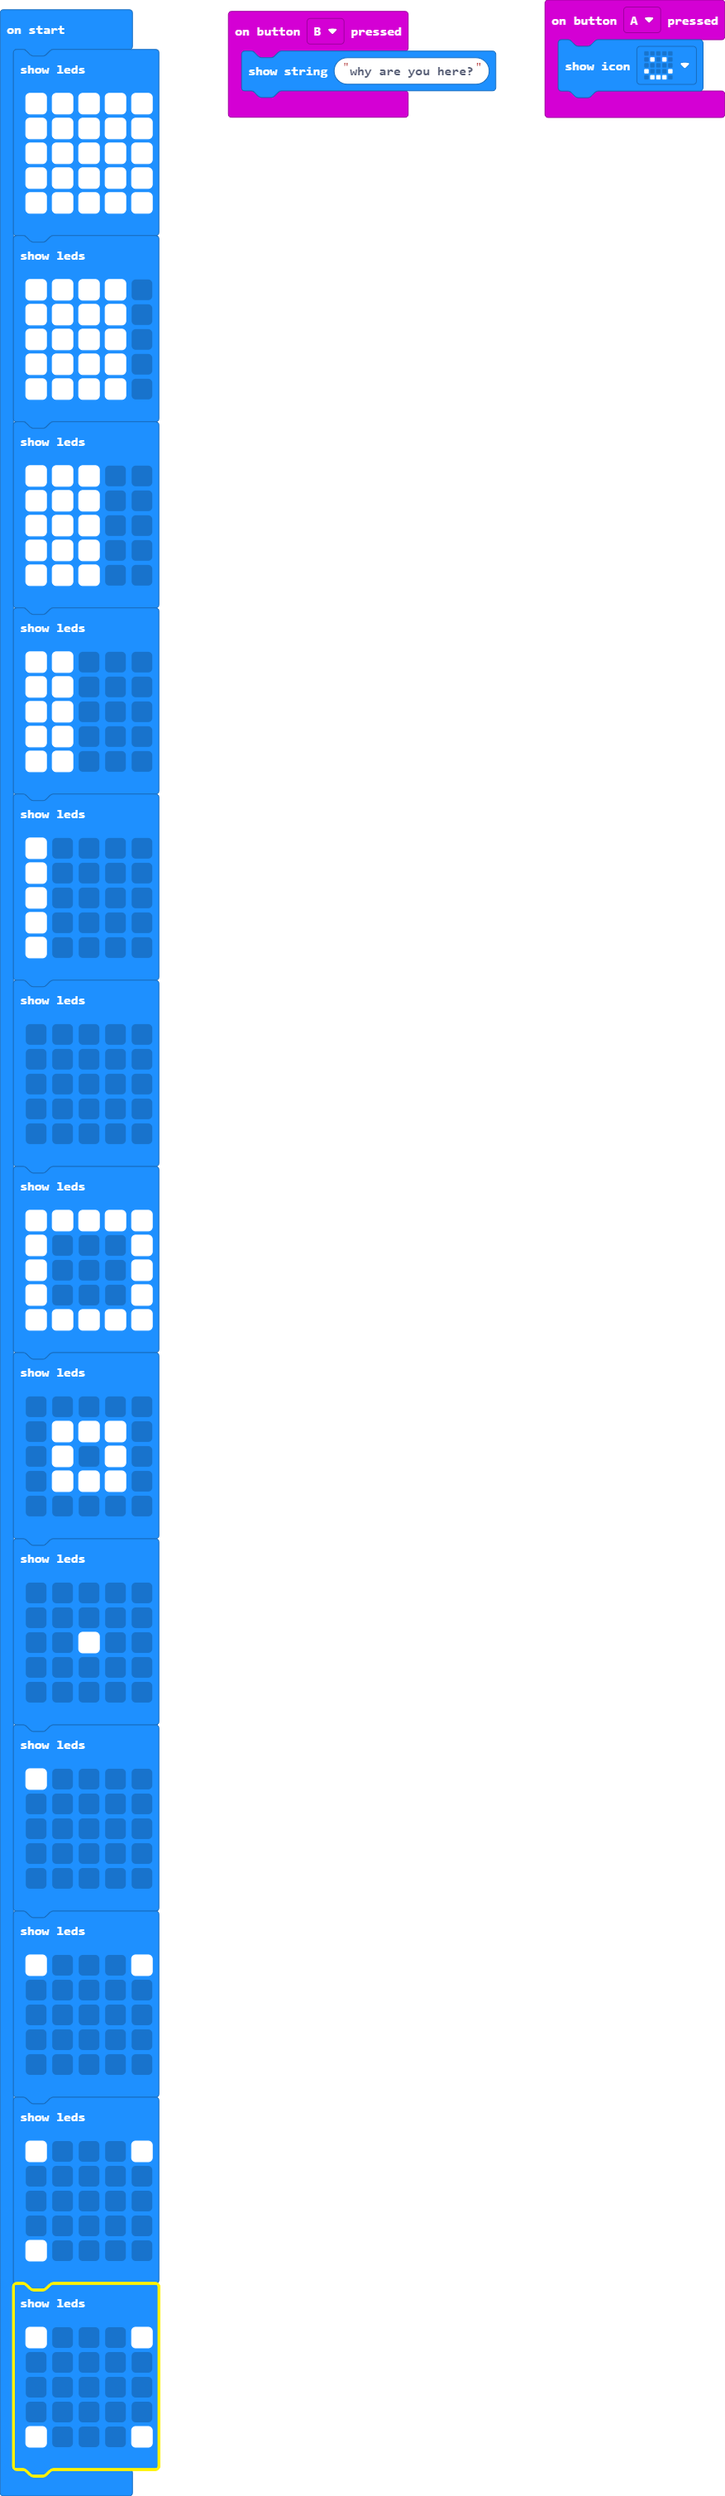
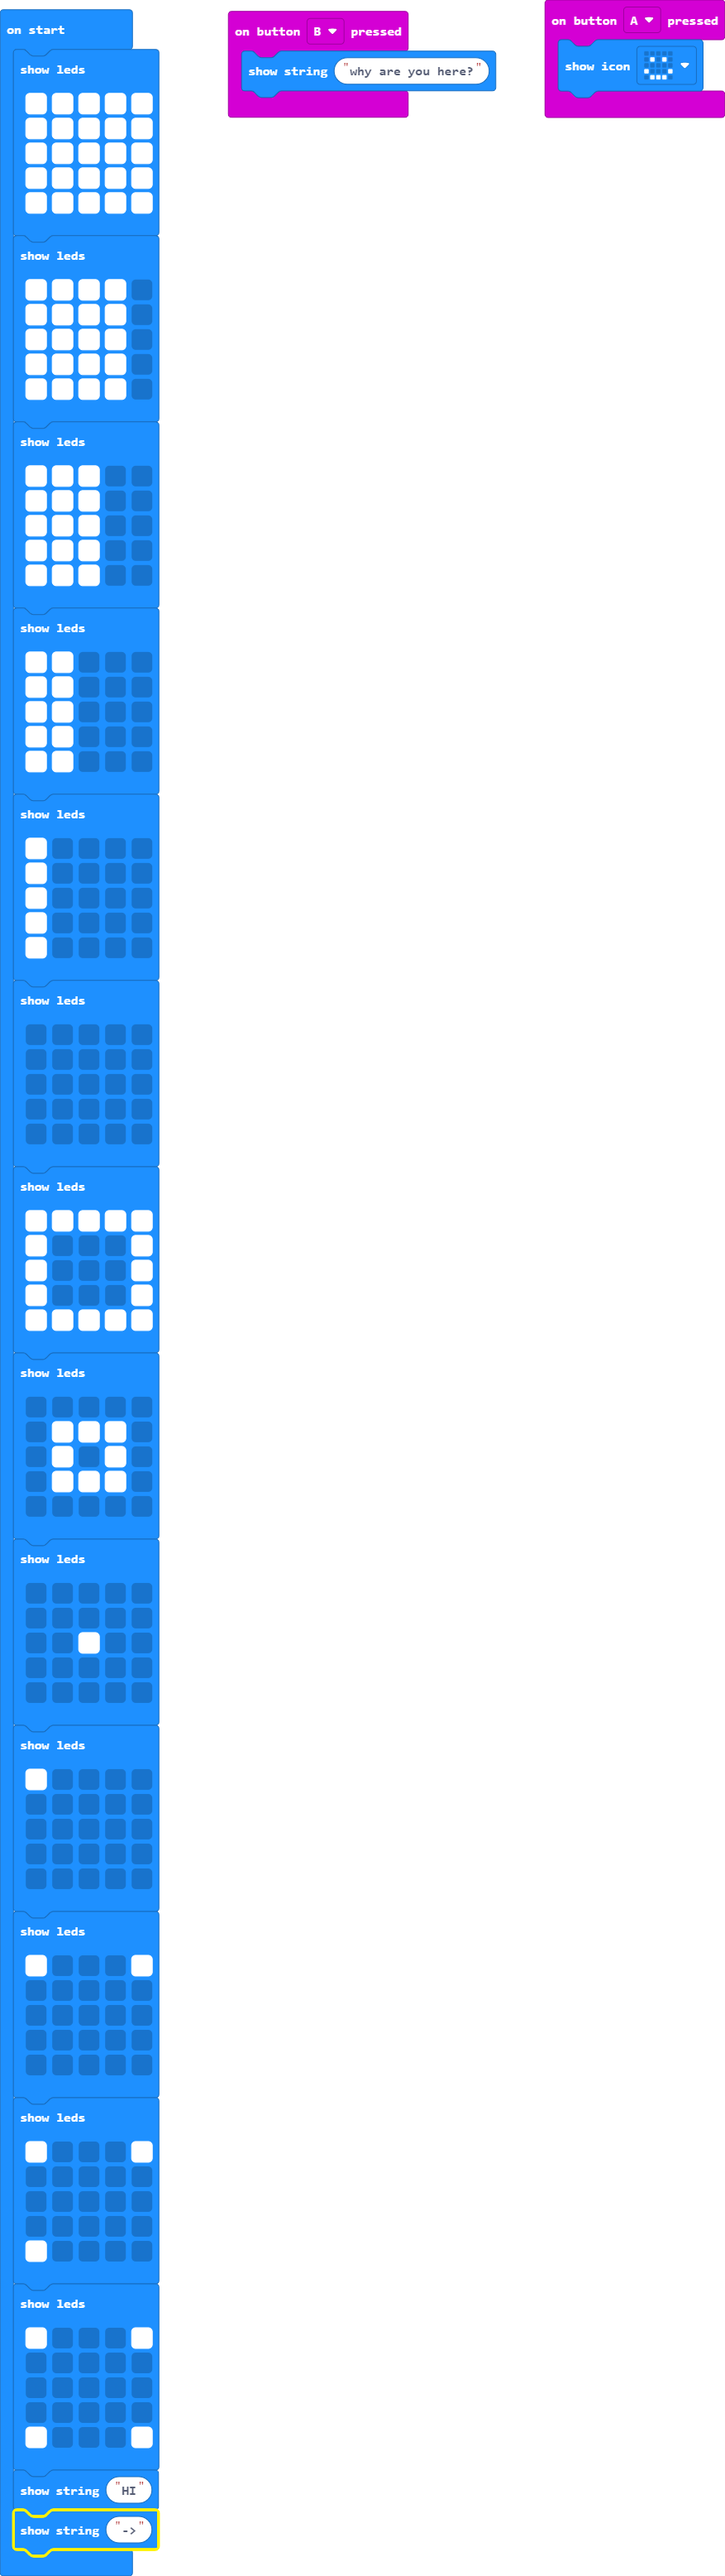
Update main.blocks, main.ts

Changed region(s): [[0.0, 0.0, 0.2463, 0.997], [0.3387, 0.0, 0.6773, 0.0623], [0.7697, 0.0, 1.0, 0.0623]]

diff --git a/main.ts b/main.ts
@@ -95,3 +95,5 @@ basic.showLeds(`
     . . . . .
     # . . . #
     `)
+basic.showString("HI")
+basic.showString("->")
